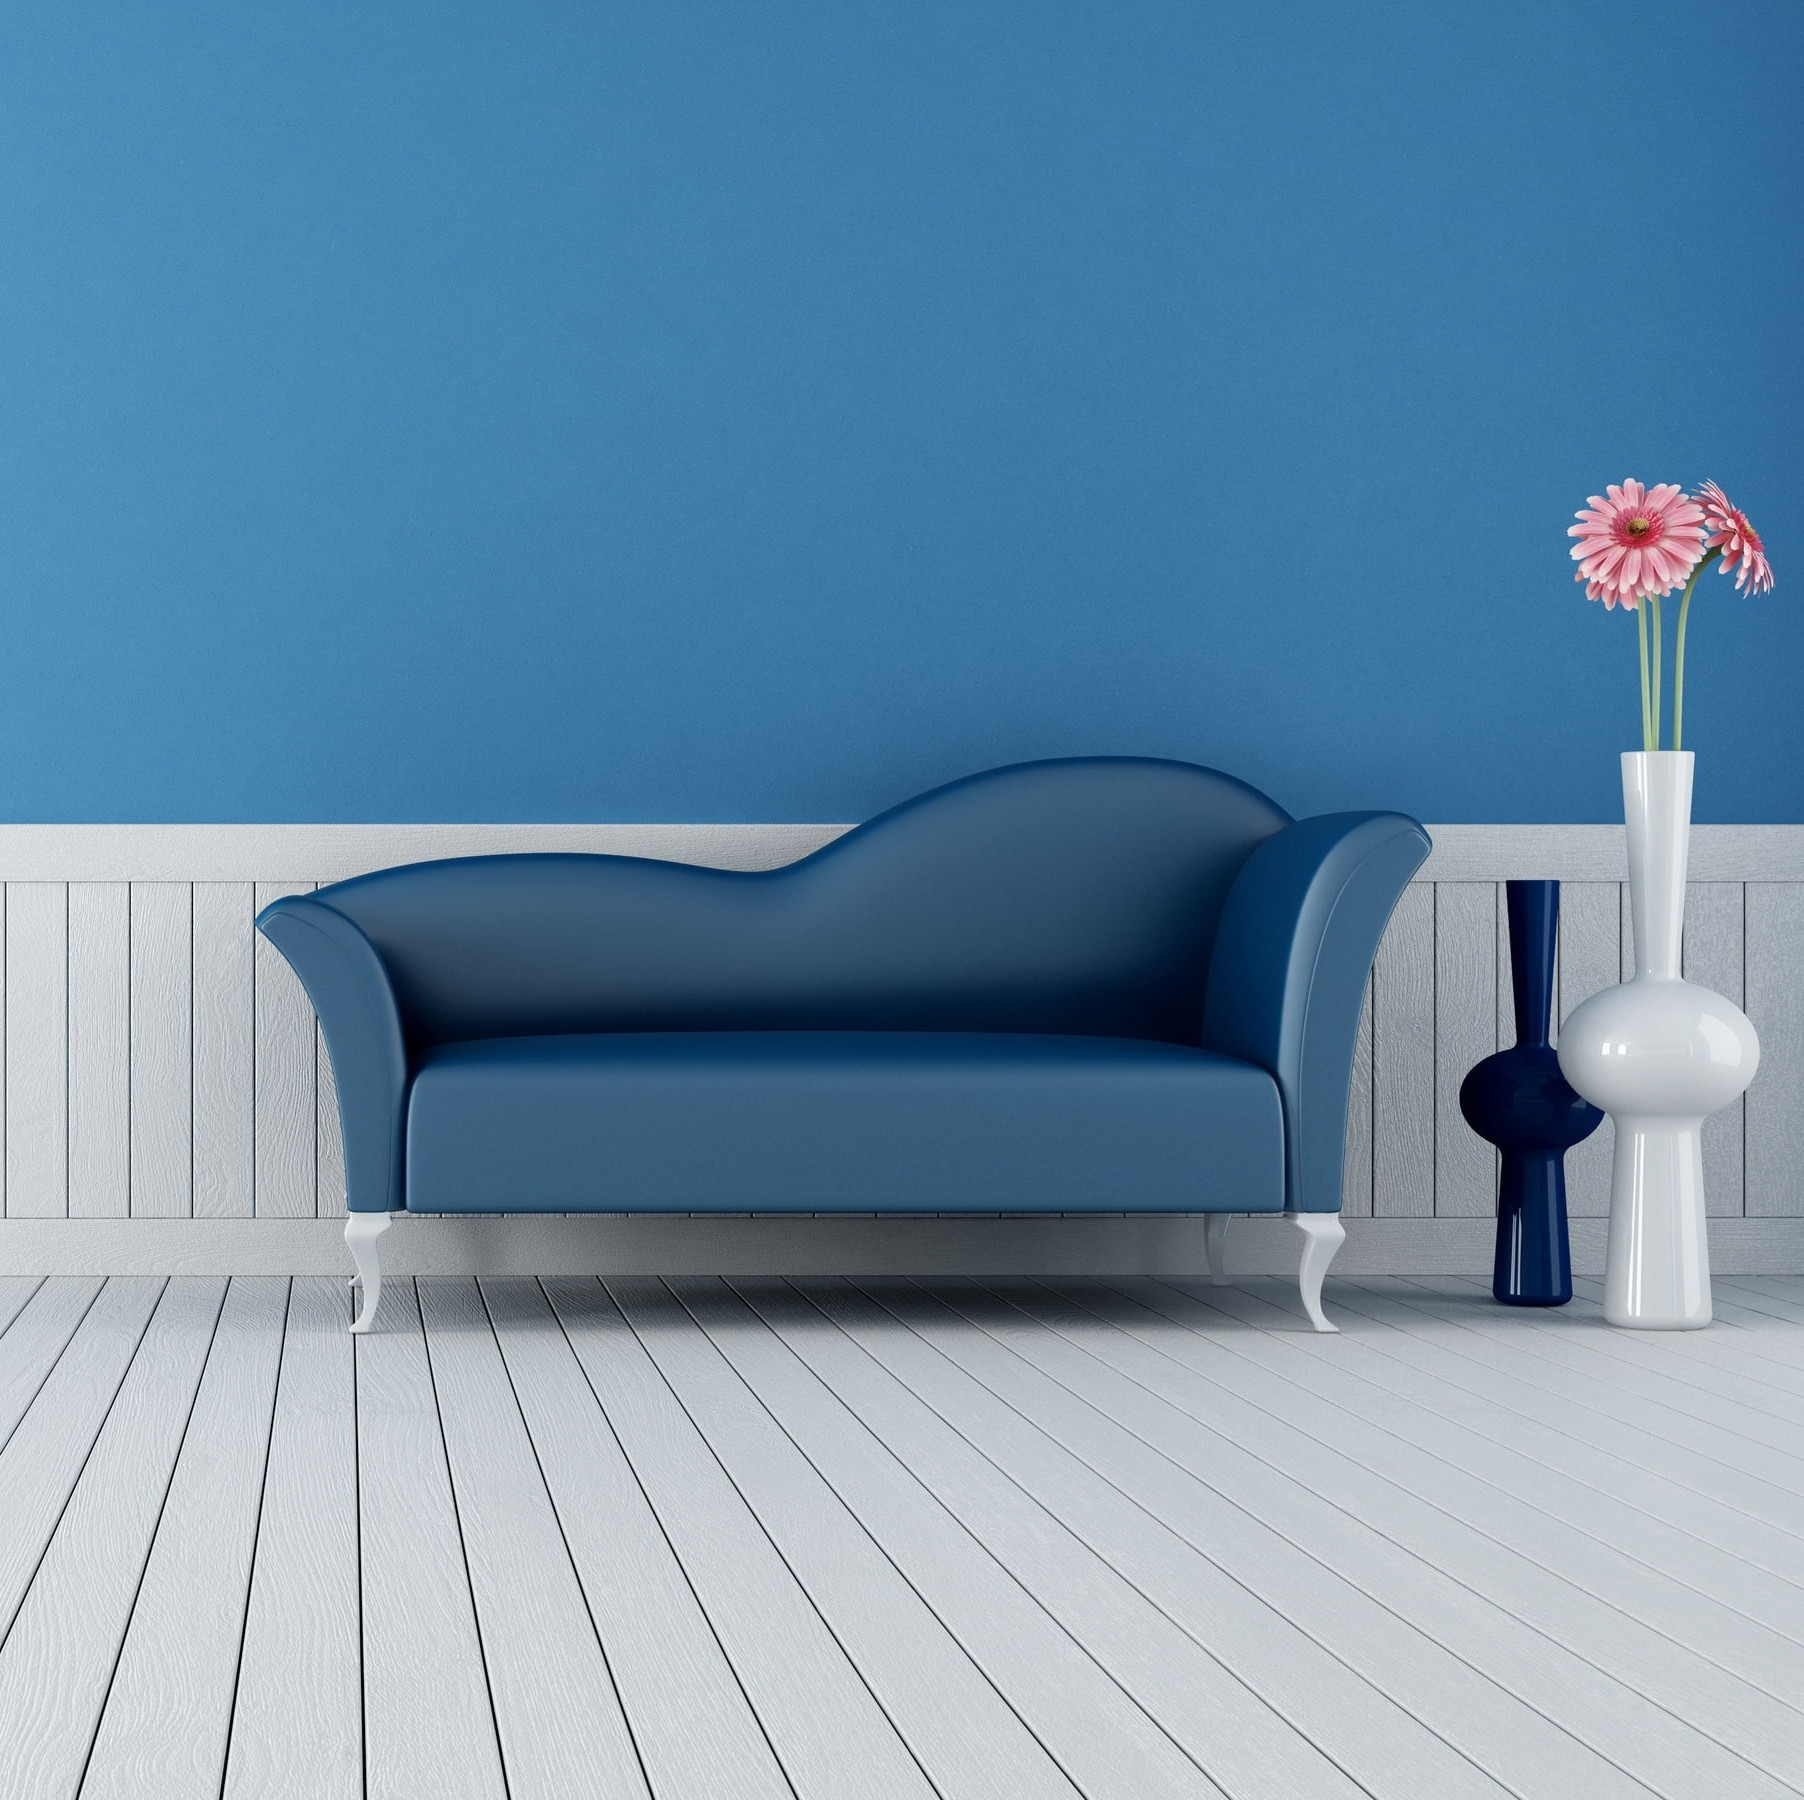
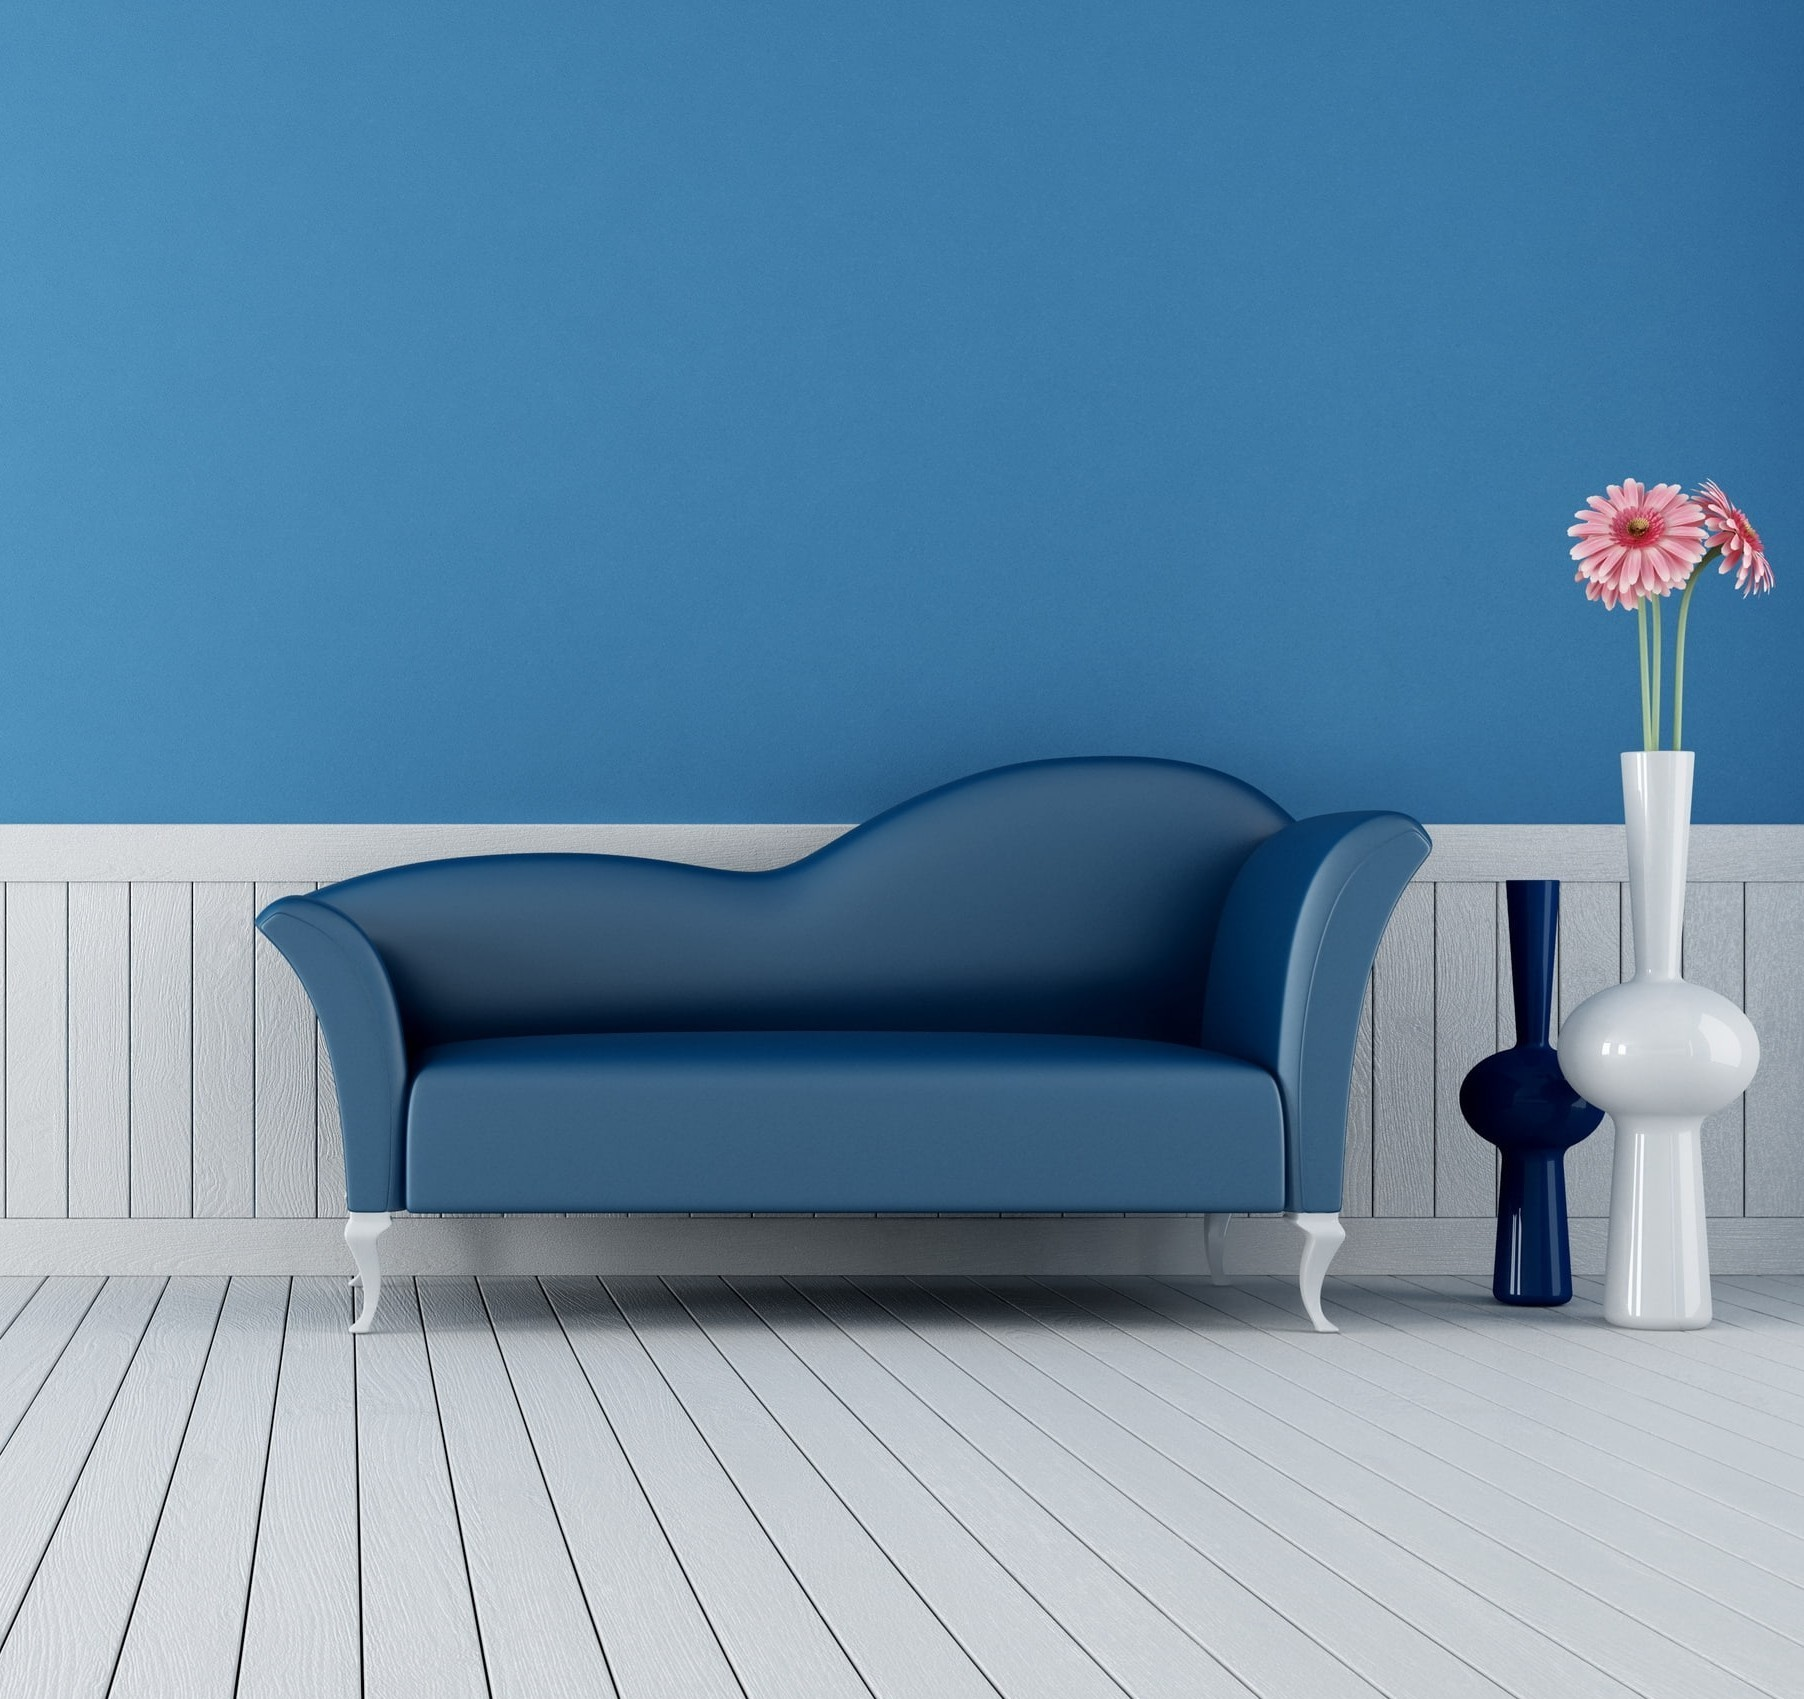
Refactored routing; added About page and update components

diff --git a/frontend/src/App.tsx b/frontend/src/App.tsx
@@ -1,68 +1,28 @@
-import {
-  BrowserRouter as Router,
-  Routes,
-  Route,
-  Navigate,
-} from "react-router-dom";
-import { useState } from "react";
-import Authentication from "./pages/Authentication";
+import { BrowserRouter as Router, Routes, Route } from "react-router-dom";
 import HomePage from "./pages/HomePage";
+import About from "./pages/About";
 import Generate from "./pages/Generate";
 import Porjects from "./pages/Porjects";
 import History from "./pages/History";
 import FAQ from "./pages/FAQ";
 import Accont from "./pages/Accont";
+import Authentication from "./pages/Authentication";
 
 function App() {
-  const [isAuthenticated, setIsAuthenticated] = useState(false);
-
-  const handleAuthentication = () => {
-    setIsAuthenticated(true);
-  };
-
   return (
     <Router>
       <Routes>
-        {/* Public Routes */}
+        <Route path="/home" element={<HomePage />} />
         <Route
-          path="/"
-          element={
-            !isAuthenticated ? (
-              <Authentication onAuthenticate={handleAuthentication} />
-            ) : (
-              <Navigate to="/home" replace />
-            )
-          }
+          path="/auth"
+          element={<Authentication onAuthenticate={() => {}} />}
         />
-
-        {/* Protected Routes - User must be authenticated */}
-        <Route
-          path="/home"
-          element={isAuthenticated ? <HomePage /> : <Navigate to="/" replace />}
-        />
-        <Route
-          path="/generate"
-          element={isAuthenticated ? <Generate /> : <Navigate to="/" replace />}
-        />
-        <Route
-          path="/projects"
-          element={isAuthenticated ? <Porjects /> : <Navigate to="/" replace />}
-        />
-        <Route
-          path="/history"
-          element={isAuthenticated ? <History /> : <Navigate to="/" replace />}
-        />
-        <Route
-          path="/faq"
-          element={isAuthenticated ? <FAQ /> : <Navigate to="/" replace />}
-        />
-        <Route
-          path="/account"
-          element={isAuthenticated ? <Accont /> : <Navigate to="/" replace />}
-        />
-
-        {/* Catch-all redirect */}
-        <Route path="*" element={<Navigate to="/" replace />} />
+        <Route path="/about" element={<About />} />
+        <Route path="/generate" element={<Generate />} />
+        <Route path="/projects" element={<Porjects />} />
+        <Route path="/history" element={<History />} />
+        <Route path="/faq" element={<FAQ />} />
+        <Route path="/account" element={<Accont />} />
       </Routes>
     </Router>
   );

diff --git a/frontend/src/components/TopBar.tsx b/frontend/src/components/TopBar.tsx
@@ -1,7 +1,13 @@
-import { Link, useLocation } from "react-router-dom";
+import { Link, useLocation, useNavigate } from "react-router-dom";
 
-function TopBar() {
+interface TopBarProps {
+  showSignIn?: boolean;
+  onSignIn?: () => void;
+}
+
+function TopBar({ showSignIn = false, onSignIn }: TopBarProps) {
   const location = useLocation();
+  const navigate = useNavigate();
 
   const isActive = (path: string) => location.pathname === path;
 
@@ -22,20 +28,37 @@ function TopBar() {
           to="/home"
           style={{
             ...styles.navLink,
-            color: isActive("/home") ? "#4384E2" : "#333",
+            color: isActive("/") ? "#4384E2" : "#333",
           }}
         >
           Home
         </Link>
-        <a href="/#about" style={styles.navLink}>
+        <Link
+          to="/about"
+          style={{
+            ...styles.navLink,
+            color: isActive("/about") ? "#4384E2" : "#333",
+          }}
+        >
           About
-        </a>
+        </Link>
         <a href="/#api" style={styles.navLink}>
           API
         </a>
         <a href="/#blog" style={styles.navLink}>
           Blog
         </a>
+        {showSignIn && (
+          <button
+            style={styles.signInButton}
+            onClick={() => {
+              if (onSignIn) onSignIn();
+              navigate("/auth", { replace: true });
+            }}
+          >
+            Sign in
+          </button>
+        )}
       </nav>
     </div>
   );
@@ -72,6 +95,24 @@ const styles = {
     fontFamily: "'Alata', sans-serif",
     padding: "0.5rem 1rem",
     textDecoration: "none",
+    marginTop: "5px",
+    marginBottom: "5px",
+    marginRight: "15px",
+  } as React.CSSProperties,
+  signInButton: {
+    backgroundColor: "#87b6f8ff",
+    color: "#ffffff",
+    border: "none",
+    borderRadius: "24px",
+    padding: "0.5rem 1.5rem",
+    fontSize: "1.25rem",
+    fontWeight: "500",
+    cursor: "pointer",
+    fontFamily: "'Alata', sans-serif",
+    transition: "background-color 0.3s ease",
+    marginTop: "5px",
+    marginBottom: "5px",
+    marginRight: "5px",
   } as React.CSSProperties,
 };
 

diff --git a/frontend/src/pages/About.tsx b/frontend/src/pages/About.tsx
@@ -1,21 +1,16 @@
 import TopBar from "../components/TopBar";
 import Footer from "../components/Footer";
-import { useNavigate } from "react-router-dom";
 
-function HomePage() {
-  const navigate = useNavigate();
-
+function About() {
   return (
     <div style={styles.container}>
       <TopBar showSignIn={true} />
       <main style={styles.mainContent}>
-        <h1>Home Page</h1>
-        <button
-          style={styles.generateButton}
-          onClick={() => navigate("/generate")}
-        >
-          Start Generating
-        </button>
+        <h1 style={styles.title}>About Page</h1>
+        <p style={styles.description}>
+          Welcome to the About page of DeClutter. Here you can learn more about
+          our mission and vision.
+        </p>
       </main>
       <Footer />
     </div>
@@ -36,18 +31,21 @@ const styles = {
     alignItems: "center",
     justifyContent: "center",
     gap: "2rem",
+    padding: "2rem",
   } as React.CSSProperties,
-  generateButton: {
-    padding: "12px 32px",
-    fontSize: "1rem",
-    fontWeight: "600",
-    backgroundColor: "#000000",
-    color: "#ffffff",
-    border: "none",
-    borderRadius: "8px",
-    cursor: "pointer",
-    transition: "background-color 0.3s ease",
+  title: {
+    fontSize: "2.5rem",
+    fontWeight: "bold",
+    color: "#333",
+    margin: "0",
+  } as React.CSSProperties,
+  description: {
+    fontSize: "1.1rem",
+    color: "#666",
+    maxWidth: "600px",
+    textAlign: "center",
+    margin: "0",
   } as React.CSSProperties,
 };
 
-export default HomePage;
+export default About;

diff --git a/frontend/src/components/Footer.tsx b/frontend/src/components/Footer.tsx
@@ -1,11 +1,6 @@
 function Footer() {
   return (
     <footer style={styles.footer}>
-      <style>{`
-        a:hover {
-          text-decoration: underline;
-        }
-      `}</style>
       <div style={styles.container}>
         {/* Company Column */}
         <div style={styles.column}>
@@ -100,7 +95,7 @@ const styles = {
     color: "#888888",
     marginTop: "3rem",
     fontFamily: "'Alata', sans-serif",
-    paddingRight: "calc(2rem + 1000px)",
+    paddingRight: "calc(2rem + 1700px)",
   } as React.CSSProperties,
 };
 

diff --git a/frontend/src/components/NavBar.tsx b/frontend/src/components/NavBar.tsx
@@ -111,6 +111,8 @@ const styles = {
     width: "40px",
     borderRadius: "50%",
     cursor: "pointer",
+    marginTop: "5px",
+    marginBottom: "5px",
   } as React.CSSProperties,
 };
 
